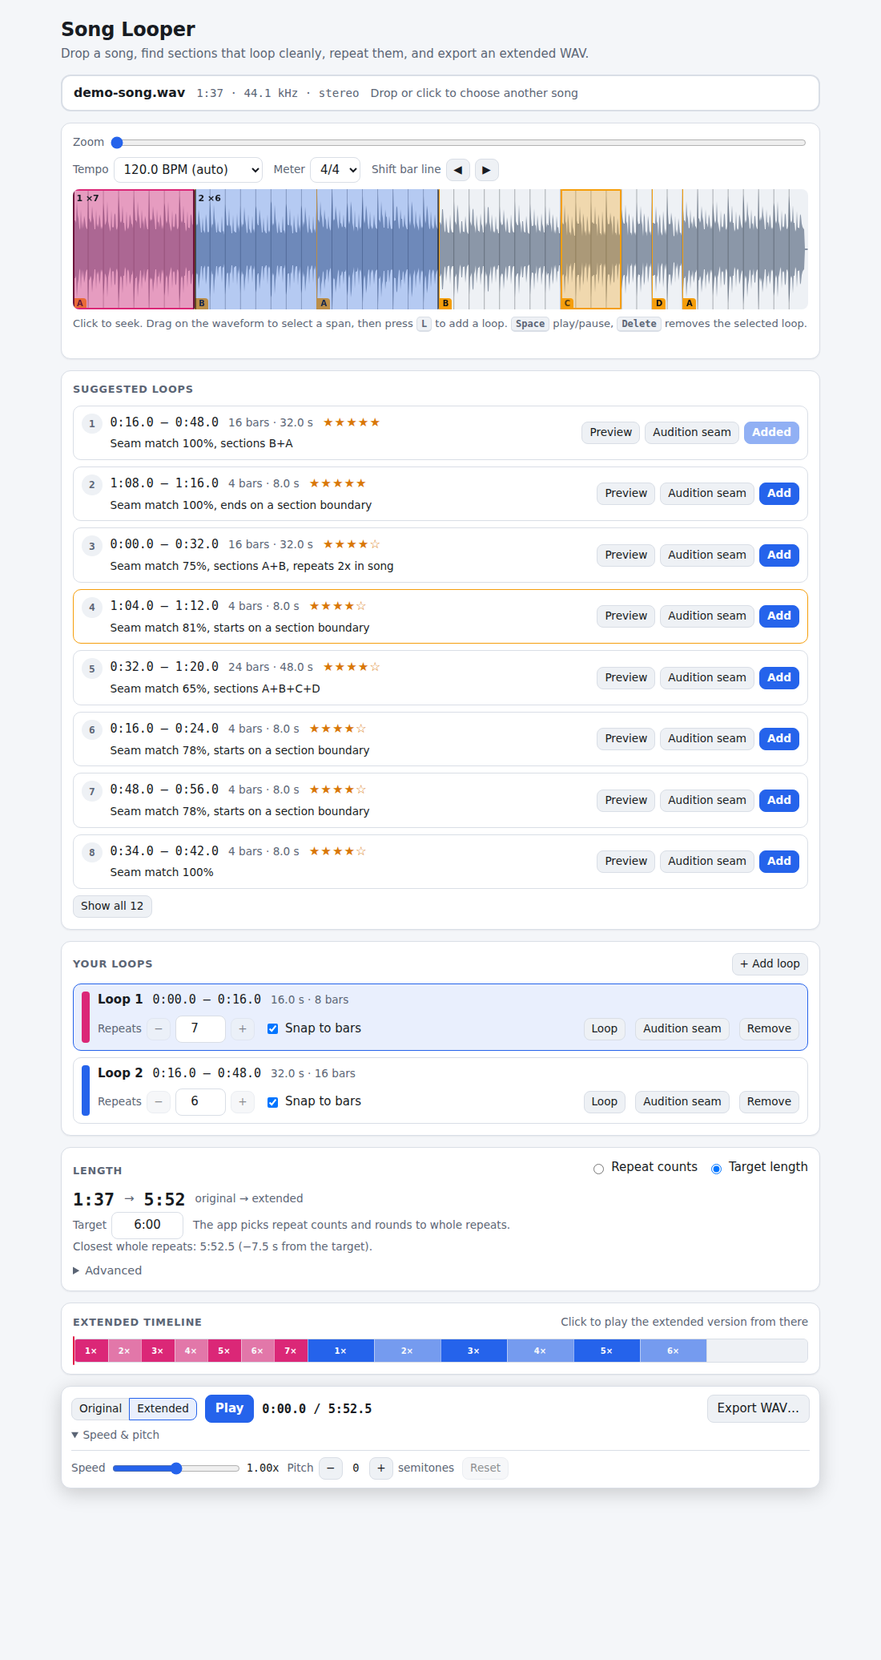
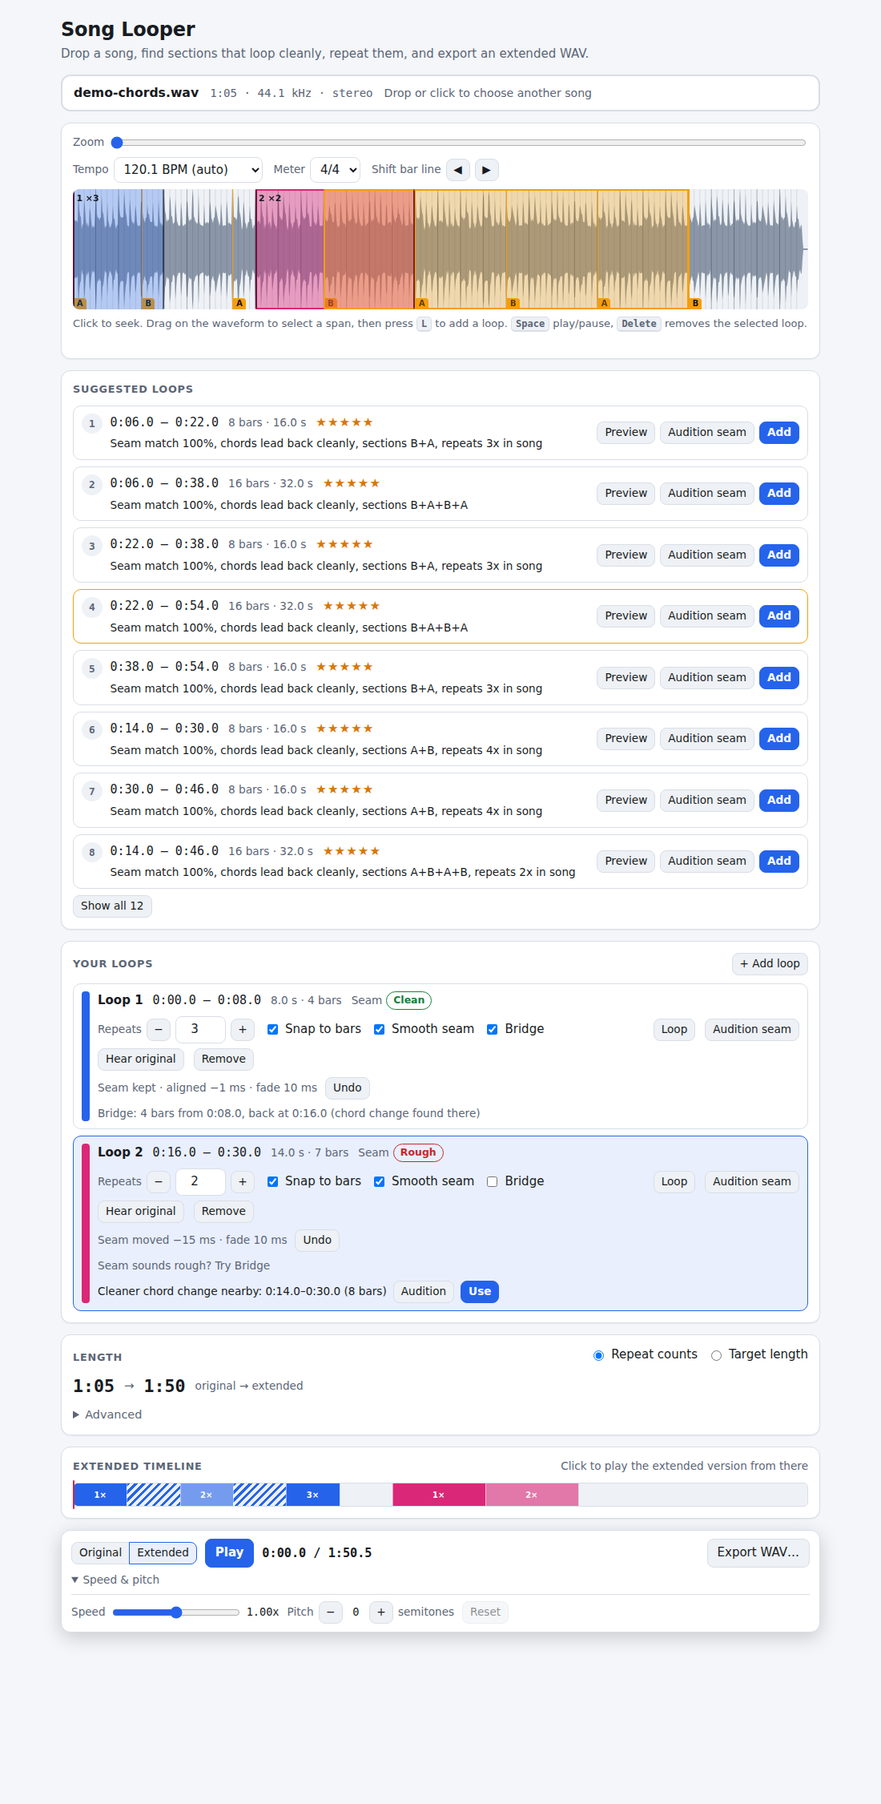
README: how seams are smoothed, new screenshot, seams checked in the artifact build
- README: a "How seams are smoothed" section in plain language (the harmonic
  transition model and why a crossfade can't fix harmony, the Clean / OK / Rough
  chip, rotation, micro-alignment, adaptive fade, level match, Undo and Hear
  original, cleaner loops nearby, bridges), the new suggestion seam score, the
  project layout, test list and known limits, and a note that the build is still one
  index.html plus relative assets/ files with no new workers or dependencies.
- docs/screenshot.png: a chord-progression demo with a bridged loop (Clean chip,
  summary line, bridge status, hatched bridge bars in the timeline) and a rough one
  with a cleaner loop suggested nearby. The screenshot spec builds it.
- e2e: the artifact export test now also covers a loop with smoothing and a bridge
  (the zip holds a WAV as long as the timeline says), and the sub-path test also
  gets a seam report and plan from the workers. The artifact fake host keeps only
  the first 4 KB of big saves (copying megabytes through the test channel took
  minutes).

Claude-Session: https://claude.ai/code/session_01FMjKDEpCjAogNRHDGyWqfe

diff --git a/tests/e2e/artifact-save.spec.ts b/tests/e2e/artifact-save.spec.ts
@@ -1,5 +1,7 @@
 import { expect, test } from '@playwright/test';
-import { dragSelect, loadFixture, makeFixture, parseWav } from './helpers';
+import type { Page } from '@playwright/test';
+import { SONG1 } from '../fixtures/synth';
+import { appState, dragSelect, loadFixture, makeChordFixture, makeFixture, parseWav, waitForAnalysis } from './helpers';
 
 // Inside a claude.ai artifact the page can't start downloads. It asks the
 // host through `claude.use("downloads")`, which takes .zip but not .wav.
@@ -7,10 +9,14 @@ import { dragSelect, loadFixture, makeFixture, parseWav } from './helpers';
 
 interface Saved {
   filename: string;
+  /** Size of the whole file. */
+  byteLength: number;
+  /** The file's bytes; only the first 4 KB of a big one (copying megabytes through the test channel takes minutes). */
   bytes: number[];
 }
 
-test('inside a claude.ai artifact, export saves a zip containing the WAV', async ({ page }) => {
+/** Pretend to be the claude.ai host: `claude.use("downloads")` records what it is asked to save. */
+async function fakeClaudeHost(page: Page): Promise<void> {
   await page.addInitScript(() => {
     const w = window as unknown as { claude: unknown; __saved?: Saved };
     w.claude = {
@@ -18,13 +24,18 @@ test('inside a claude.ai artifact, export saves a zip containing the WAV', async
         name === 'downloads'
           ? {
               save: async (req: { filename: string; data: Blob }) => {
-                w.__saved = { filename: req.filename, bytes: Array.from(new Uint8Array(await req.data.arrayBuffer())) };
+                const all = new Uint8Array(await req.data.arrayBuffer());
+                w.__saved = { filename: req.filename, byteLength: all.length, bytes: Array.from(all.length <= 2_000_000 ? all : all.subarray(0, 4096)) };
                 return { status: 'saved' };
               },
             }
           : null,
     };
   });
+}
+
+test('inside a claude.ai artifact, export saves a zip containing the WAV', async ({ page }) => {
+  await fakeClaudeHost(page);
 
   const fixture = await makeFixture({ structure: 'AB', barsPerSection: 2 });
   await loadFixture(page, fixture);
@@ -51,4 +62,48 @@ test('inside a claude.ai artifact, export saves a zip containing the WAV', async
   const wav = parseWav(zip.subarray(30 + nameLen, 30 + nameLen + size));
   expect(wav.riffSizeOk).toBe(true);
   expect(wav.duration).toBeGreaterThan(fixture.duration);
+});
+
+test('inside a claude.ai artifact, a loop with a smoothed seam and a bridge exports as a zip as long as the timeline says', async ({ page }) => {
+  await fakeClaudeHost(page);
+  const errors: string[] = [];
+  page.on('pageerror', (e) => errors.push(e.message));
+  const fixture = await makeChordFixture(SONG1, 'song1.wav');
+  await loadFixture(page, fixture);
+  await waitForAnalysis(page);
+  const a = fixture.sections[0]!;
+  await page.evaluate(
+    ([start, end]) =>
+      (window as unknown as { songLooper: { addLoop(s: { start: number; end: number }): string | null } }).songLooper.addLoop({
+        start: start!,
+        end: end!,
+      }),
+    [a.start, a.end],
+  );
+  await expect(page.getByTestId('seam-summary').first()).toBeVisible();
+  await page.getByTestId('bridge-toggle').first().check();
+  await expect(page.getByTestId('bridge-status').first()).toHaveText(/^Bridge: 4 bars/);
+  await page.getByTestId('repeats').first().fill('3');
+  await page.getByTestId('repeats').first().press('Enter');
+  const { seam } = (await appState<{ seam: { loopStart: number; loopEnd: number; bridge: { seconds: number } } }[]>(page, 's.regions'))[0]!;
+  const expected = fixture.duration + 2 * (seam.loopEnd - seam.loopStart + seam.bridge.seconds);
+
+  let downloaded = false;
+  page.on('download', () => (downloaded = true));
+  await page.getByTestId('export').click();
+  await page.getByTestId('export-confirm').click();
+  await expect(page.getByTestId('export-dialog')).toBeHidden();
+  const saved = await page.evaluate(() => (window as unknown as { __saved?: Saved }).__saved);
+  expect(downloaded).toBe(false);
+  expect(saved?.filename).toMatch(/\(extended\)\.zip$/);
+  // a stored zip: local header (30 bytes + name), the WAV, then the central directory. Only the WAV's header is needed.
+  const zip = Buffer.from(saved!.bytes);
+  expect(zip.readUInt32LE(0)).toBe(0x04034b50);
+  const size = zip.readUInt32LE(18);
+  const nameLen = zip.readUInt16LE(26);
+  expect(saved!.byteLength).toBeGreaterThan(30 + nameLen + size);
+  const wav = parseWav(zip.subarray(30 + nameLen, 30 + nameLen + 44));
+  expect(wav.dataBytes).toBe(size - 44);
+  expect(Math.abs(wav.duration - expected)).toBeLessThan(0.02);
+  expect(errors).toEqual([]);
 });

diff --git a/tests/e2e/screenshot.spec.ts b/tests/e2e/screenshot.spec.ts
@@ -1,23 +1,47 @@
 import { mkdirSync } from 'node:fs';
-import { test } from '@playwright/test';
-import { loadFixture, makeFixture, waitForAnalysis } from './helpers';
+import { expect, test } from '@playwright/test';
+import type { Page } from '@playwright/test';
+import { loadFixture, makeChordFixture, waitForAnalysis } from './helpers';
 
 // Regenerates docs/screenshot.png: SCREENSHOT=1 npx playwright test screenshot
 test.skip(!process.env.SCREENSHOT, 'set SCREENSHOT=1 to regenerate docs/screenshot.png');
 
+async function addLoop(page: Page, start: number, end: number): Promise<void> {
+  await page.evaluate(
+    ([a, b]) =>
+      (window as unknown as { songLooper: { addLoop(s: { start: number; end: number }): string | null } }).songLooper.addLoop({
+        start: a!,
+        end: b!,
+      }),
+    [start, end],
+  );
+}
+
 test('take the README screenshot', async ({ browser }) => {
   const context = await browser.newContext({ viewport: { width: 1100, height: 900 }, colorScheme: 'light', deviceScaleFactor: 1 });
   const page = await context.newPage();
-  const fixture = await makeFixture({ structure: 'ABABCA', barsPerSection: 8, bpm: 120 }, 'demo-song.wav');
+  // A chord-progression song (A = C G Am F, B = Dm Em F G, each bar one chord over a kick). The song goes F -> Dm and
+  // G -> C, never F -> C, so a loop of A alone ends on a chord change the song never makes.
+  const fixture = await makeChordFixture(
+    { progressions: { A: 'C G Am F', B: 'Dm Em F G' }, structure: 'ABABABAB' },
+    'demo-chords.wav',
+  );
   await loadFixture(page, fixture);
   await waitForAnalysis(page);
-  const adds = page.getByTestId('suggestion-add');
-  await adds.first().click();
-  await adds.nth(2).click();
-  await page.getByTestId('length-mode-target').check();
-  await page.getByTestId('target-input').fill('6:00');
-  await page.getByTestId('target-input').press('Enter');
+
+  // Loop 1 is the first A, with a bridge: four bars of the song after it, then back where G -> C is.
+  await addLoop(page, 0, 8);
+  await page.getByTestId('bridge-toggle').first().check();
+  await expect(page.getByTestId('bridge-status').first()).toHaveText(/^Bridge: 4 bars/);
+  await expect(page.getByTestId('seam-chip').first()).not.toHaveText('Rough');
+  // Loop 2 stops one bar early (it ends on F and returns to C): the seam is rough and a cleaner loop is suggested.
+  await addLoop(page, 16, 30);
+  await expect(page.getByTestId('nearby').nth(1)).toBeVisible();
+  await expect(page.getByTestId('seam-chip').nth(1)).toHaveText('Rough');
+  await page.getByTestId('repeats').first().fill('3');
+  await page.getByTestId('repeats').first().press('Enter');
   await page.getByTestId('mode-extended').click();
+  await expect(page.getByTestId('seam-summary').nth(1)).toBeVisible();
   await page.waitForTimeout(800);
   mkdirSync('docs', { recursive: true });
   // Grow the viewport to the page height so the sticky transport bar sits at the bottom of the shot.

diff --git a/tests/e2e/subpath.spec.ts b/tests/e2e/subpath.spec.ts
@@ -69,6 +69,13 @@ test('the built site works from a GitHub Pages style sub-path (workers and workl
     await page.waitForSelector('[data-testid=song-panel]:not([hidden])');
     await waitForAnalysis(page); // needs the analysis worker
     expect(await appState<number>(page, 's.analysis.beats.length')).toBeGreaterThan(20);
+    // a loop gets its seam report and smoothing plan from the same worker, and the render worker plays the plan
+    await page.evaluate(() =>
+      (window as unknown as { songLooper: { addLoop(s: { start: number; end: number }): string | null } }).songLooper.addLoop({ start: 0, end: 8 }),
+    );
+    await expect(page.getByTestId('seam-chip').first()).toBeVisible();
+    await expect(page.getByTestId('seam-summary').first()).toBeVisible();
+    expect(await appState<boolean>(page, '!!s.regions[0].seam')).toBe(true);
     // the render worker and the SoundTouch worklet load from relative URLs too
     await page.getByTestId('speed').fill('1.2');
     await page.getByTestId('mode-extended').click();

diff --git a/README.md b/README.md
@@ -7,6 +7,10 @@ Everything runs in the browser. There is no server, no API key and nothing is up
 
 ![Song Looper screenshot](docs/screenshot.png)
 
+*A synthetic chord-progression demo. Loop 1 has a bridge, so its seam reads Clean and the extended timeline shows
+the hatched bridge bars. Loop 2 ends one bar early on a chord change the song never makes: Rough, with a cleaner
+loop suggested nearby.*
+
 ## What it does
 
 - Loads mp3, wav, m4a/aac, flac, ogg or anything else your browser's `decodeAudioData` accepts, and keeps the
@@ -22,6 +26,9 @@ Everything runs in the browser. There is no server, no API key and nothing is up
 - Each loop has its own repeat count (1 to 64). Or set a target length and let the app choose repeat counts.
 - Previews the original or the extended song, a loop on repeat, or just the seam (the jump from a loop's end back
   to its start) through the same crossfade code the export uses.
+- Smooths the seam of every loop so the join sounds like part of the song, and says how it went with a Clean / OK /
+  Rough chip. Optionally bridges a rough seam with a few bars of the song. See
+  [How seams are smoothed](#how-seams-are-smoothed).
 - Speed (0.5x to 1.5x, tempo only) and pitch (-12 to +12 semitones) for preview, optionally baked into the export.
 - Exports 16-bit or 24-bit PCM or 32-bit float WAV.
 
@@ -62,11 +69,17 @@ npm run demo-song    # writes tests/fixtures/demo-song.generated.wav (git-ignore
   100/120/140 BPM (tempo within +-1 BPM, beats within 30 ms), a synthetic A B A B C A song (the top candidate must
   start and end on the A/B boundaries and an A or A+B loop must be in the top 3), other structures and tempos, 3/4,
   the timeline and render maths, seam crossfade continuity, zero-crossing snapping, the target-length solver, the
-  WAV encoder, sample-rate sniffing and the offline SoundTouch stretch.
+  WAV encoder, sample-rate sniffing and the offline SoundTouch stretch. The seam work is tested on songs built
+  from named chord progressions (one chord per bar over a kick, also in `synth.ts`): the harmony of the same loop
+  with and without the chord change in the song, suggestions, rotation (length unchanged, never more than a beat,
+  lands before a hit), micro-alignment (a +15 ms edge recovered within 2 ms, one onset in the seam window), the fade
+  limit at poor harmony, the level step after a 3 dB crescendo, bridge search, render length and target solver, Undo,
+  and how stale seam data is dropped when the tempo, meter or bar lines change.
 - **End to end (Playwright, Chromium)**: load a generated WAV, select a span, add a loop, repeat it, export,
   and check the downloaded WAV's header and duration (and decode it with `decodeAudioData`); suggestions, preview,
   seam audition, snapping, target-length mode, the timeline strip, live speed/pitch (through the real AudioWorklet),
-  baked export, error and edge cases, a 380 px layout check in light and dark mode, and serving the built site
+  baked export, the seam chip, Undo, nearby loops, bridges (chip, hatched strip, export length), error and edge
+  cases, a 380 px layout check in light and dark mode, saving as a claude.ai artifact, and serving the built site
   from a GitHub Pages style sub-path.
 
 Playwright is pinned to 1.56.x so that its Chromium revision matches the browser pre-installed in this
@@ -87,8 +100,10 @@ The workflow can also be run by hand from the Actions tab.
 
 The same build also runs as a claude.ai artifact. A page there can't start downloads itself, so
 `src/audio/save.ts` asks the host through `claude.use("downloads")`. That save dialog accepts `.zip` but not
-`.wav`, so inside an artifact the export arrives as a zip holding the WAV. Everywhere else it's a plain WAV
-download.
+`.wav`, so inside an artifact the export arrives as a zip holding the WAV (a loop with seam smoothing and a bridge
+included). Everywhere else it's a plain WAV download. The build is one `index.html` plus files under `assets/`, all
+referenced by relative URLs (`base: './'`): the analysis worker (which also does the seam work), the render worker,
+the SoundTouch worklet and the lazily loaded AAC decoder. The seam features added no extra files or dependencies.
 
 ## How loop suggestions work
 
@@ -113,10 +128,11 @@ threshold lives in `src/analysis/config.ts`.
    geometric mean), prominent peaks snapped to bar lines, then agglomerative clustering labels them A, B, C in
    order of first appearance. The label that repeats most gets a cautious "likely chorus" hint.
 9. **Candidates**: every bar-aligned pair `(a, b)` of 2 to 32 bars (at least 4 s, at most half the song) is scored
-   0.5 x seam match + 0.25 x structure + 0.15 x energy continuity + 0.10 x length preference. The seam score is the
-   mean of `S[a+j][b+j]` for `j` in `[-4, 4)`: does the music around `b` sound like the music around `a`, so that
-   jumping from `b` back to `a` is what the song itself does at `a`? Overlapping near-duplicates are suppressed and
-   the top 12 are kept, each with a reason such as "Seam match 100%, sections B+A".
+   0.5 x seam + 0.25 x structure + 0.15 x energy continuity + 0.10 x length preference. The seam is half
+   *context match* and half *harmony*. Context match is the better of two means over four beats: `S[a-1-j][b-1-j]`
+   (the lead-ins match) and `S[a+j][b+j]` (the continuations match). Harmony asks whether the song itself makes the
+   chord change from the beat before `b` to the beat at `a` (see [How seams are smoothed](#how-seams-are-smoothed)). Overlapping near-duplicates are suppressed
+   and the top 12 are kept, each with a reason such as "Seam match 100%, chords lead back cleanly, sections B+A".
 
 ### Splicing
 
@@ -124,8 +140,9 @@ threshold lives in `src/analysis/config.ts`.
 sample by sample. Loop edges first snap to the nearest zero crossing (+-2 ms, on the mid channel, both channels
 moved together). Each jump from a loop's end back to its start gets an equal-power crossfade (20 ms by default,
 "Seam smoothing" under Advanced), which blends toward equal-gain when the two sides are highly correlated, because
-a pure equal-power fade of two identical signals would swell by 3 dB. Preview and export use the same renderer,
-so what you hear is what you get.
+a pure equal-power fade of two identical signals would swell by 3 dB. A loop with **Smooth seam** on (the default)
+picks its own fade length instead, as described below, and the "Seam smoothing" length applies to loops with it off.
+Preview and export use the same renderer, so what you hear is what you get.
 
 ### Speed and pitch
 
@@ -134,6 +151,74 @@ source's `playbackRate` and the worklet compensates pitch). The node is only in 
 pitch is not neutral. Exporting with "Apply speed and pitch changes" ticked processes the rendered channels with
 `@soundtouchjs/core` inside the render worker (a WSOLA stretch stage plus the rate transposer), with progress.
 
+## How seams are smoothed
+
+A loop sounds seamless when the end leads back into the start the way the song itself would. A crossfade can't give
+you that: it blends two sounds, so when the chords on either side of the seam clash, a longer fade only lets you
+hear both chords at once. The app therefore works on **where** the seam is, and uses the fade only for timing and
+timbre. Everything is signal processing on data the analysis worker already has. There is no AI model and no
+generated audio, and none of it needs a server.
+
+**Does the song make this chord change?** The song shows which chord changes sound natural. Per beat the app has a
+12-note chroma vector (which notes are sounding). A jump from beat `x` (the last beat played) to beat `y` (the next
+one) is natural if somewhere in the song, two beats that sound like the ones before `x` are followed by two beats
+that sound like the ones from `y`. The score is the mean of the two best such places that are at least a bar apart
+(a place that matches almost exactly stands on its own, so a chord change the song makes once still counts). The
+number is then measured against the song's own random jumps: the median jump scores 0 and the 95th percentile
+scores 1, so a song that sits on one chord doesn't make everything look natural. A song with no spread at all
+scores every seam 1 and lets the other two scores decide. Take a song that plays C G Am F, Dm Em F G, then both
+again, one chord per bar. A loop of the first four bars ends on F and returns to C, F to C never happens in the
+song, and the loop scores 0. A loop of all eight bars ends on G and returns to C, G to C happens (where the second
+round starts), and it scores 1.
+
+**The Seam chip.** Each loop's seam gets three scores: how well it hides in front of a drum hit, how close the
+spectrum across the seam is to the song's own at that point in the bar, and the harmony above. Quality is 0.25 hit
++ 0.25 spectrum + 0.5 harmony, because the chord is what you hear. 70% or more reads **Clean**, 55% or more
+**OK**, anything below **Rough**. The tooltip shows the numbers before and after smoothing. Without a steady beat
+there is no harmony score and the chip comes from the other two.
+
+**Smooth seam** (a checkbox on each loop, on by default) does four things. The loop's own start and end stay
+exactly where you put them; the app only changes how the jump is played, so it can show what it did and **Undo**
+is exact.
+
+1. *Rotation.* Both edges shift together by up to a beat either way, so the loop keeps its exact length and the
+   groove doesn't change. Quarter-beat positions are tried, the two best are refined in 5 ms steps within 30 ms,
+   and each is scored on a hit just after the seam (0.4), spectral continuity (0.4) and harmony (0.2), with a small
+   cost for moving. A seam that is already fine stays where it is. The edges never leave the free space around the
+   loop.
+2. *Micro-alignment.* The end edge alone moves by at most 20 ms, to where the fine onset curves around the two
+   edges line up best (the waveform when neither has a hit). This fixes a drum hit that would land twice.
+3. *Adaptive fade.* The seam is rendered with 10, 20, 40, 80, 160 ms and one-beat fades, and the shortest one
+   whose spectral discontinuity is close to the best wins. When the chord change is not natural (harmony below 0.5)
+   only fades of 40 ms or less are allowed.
+4. *Level match.* If the last beat and the first beat differ by more than 1.5 dB beyond the song's own accent
+   pattern, the last beat of the loop ramps linearly to meet the first. It only applies to repeats that jump back;
+   the last pass into the rest of the song is untouched.
+
+The loop row shows a one-line summary such as `Seam moved +61 ms · aligned +7 ms · fade 40 ms`, **Undo** (which
+restores the original seam and turns smoothing off for that loop), **Audition seam** (plays the smoothed seam) and
+**Hear original** (plays the raw seam for comparison).
+
+**Cleaner chord change nearby.** When a loop's harmony is under 0.5, the app looks for a loop whose start is within
+a bar of yours, whose end is within two bars, and that is a whole number of bars long, and picks the one with the
+best harmony (the suggestion score breaks ties). It is only offered if it scores at least 0.7 and is clearly better.
+The loop row shows it with **Audition** and **Use**. Nothing moves until you click.
+
+**Bridge** (a checkbox on each loop, off by default). When no jump from the loop's end back to its start sounds
+natural, the loop can play a few bars of the song after its end and jump back from a place where the song does make
+that chord change. The app searches for a path that starts at the loop's last beat and comes back to its first, plays
+1 to 4 whole bars beyond the loop and jumps at most twice. A jump has to be one the song makes (harmony 0.5 or more)
+and has to land at the same place in the bar as the beat it replaces. The simplest path, carrying on into the song and
+jumping back at the bar line where the chord change occurs, is always among the ones considered, and the song's own
+continuation wins ties. A bridge is only offered when its weakest jump is at least 0.2 better than the direct seam;
+otherwise the row says `No natural bridge found` or `No bridge needed`. Every repeat except the last plays the loop
+and then the bridge, every jump in it gets the same smoothing as a plain seam, and the last repeat flows into the rest
+of the song as usual. The timeline, the extended length, the target-length solver, the extended timeline strip (bridges
+are hatched in the loop's colour), seam audition, loop preview and export all include it.
+
+Seams that read Rough show a "Seam sounds rough? Try Bridge" hint. Stem separation (giving drums, bass and vocals
+each their own seam) is not part of this version.
+
 ## Project layout
 
 ```
@@ -141,9 +226,10 @@ index.html
 src/
   main.ts  app.ts  model.ts  plan.ts  grid.ts
   ui/        dropzone, waveform, suggestionsPanel, regionsPanel, lengthPanel, timelineStrip, transport,
-             exportDialog, analysisControls
-  audio/     decode (+ sniff), player, render, preview, target, stretch, wav, renderClient/worker
+             exportDialog, analysisControls, seamText
+  audio/     decode (+ sniff), player, render, preview, target, stretch, wav, save, renderClient/worker
   analysis/  stft onset tempo beats bars features ssm sections candidates pipeline config worker client
+             harmony seam smooth nearby bridge bridgePlan   (seams, see "How seams are smoothed")
   label/     provider.ts   (LabelProvider interface, no-op default)
 tests/       unit/  e2e/  fixtures/
 scripts/     make-demo-song.ts
@@ -155,6 +241,11 @@ scripts/     make-demo-song.ts
 - Beat and structure analysis is heuristic. Expect octave (half/double) tempo errors on some songs, which the
   tempo menu fixes, and approximate section boundaries on real recordings. Ambient or rubato music gets a
   "No steady beat found" warning and a fixed 0.5 s snapping grid.
+- The harmony score comes from the song's own chroma, not from recognising chords, so it only knows chord changes
+  that the song itself makes. A song that never repeats a chord change gives every seam a poor score, and a seam in
+  a song with no steady beat has no harmony score at all (the chip then rests on the other two scores). Smoothing moves a seam by at most a beat and 20 ms; it
+  can't make a bad chord change good (the nearby loop and the bridge are for that, and a bridge only jumps between
+  bar positions that match).
 - Files over 20 minutes load with a warning; extended output is capped at 60 minutes.
 - Files with more than two channels are stretched pair by pair when speed or pitch is baked in.
 - Optional AI labelling of sections and saving loops between sessions are not in v1 (`src/label/provider.ts` is
